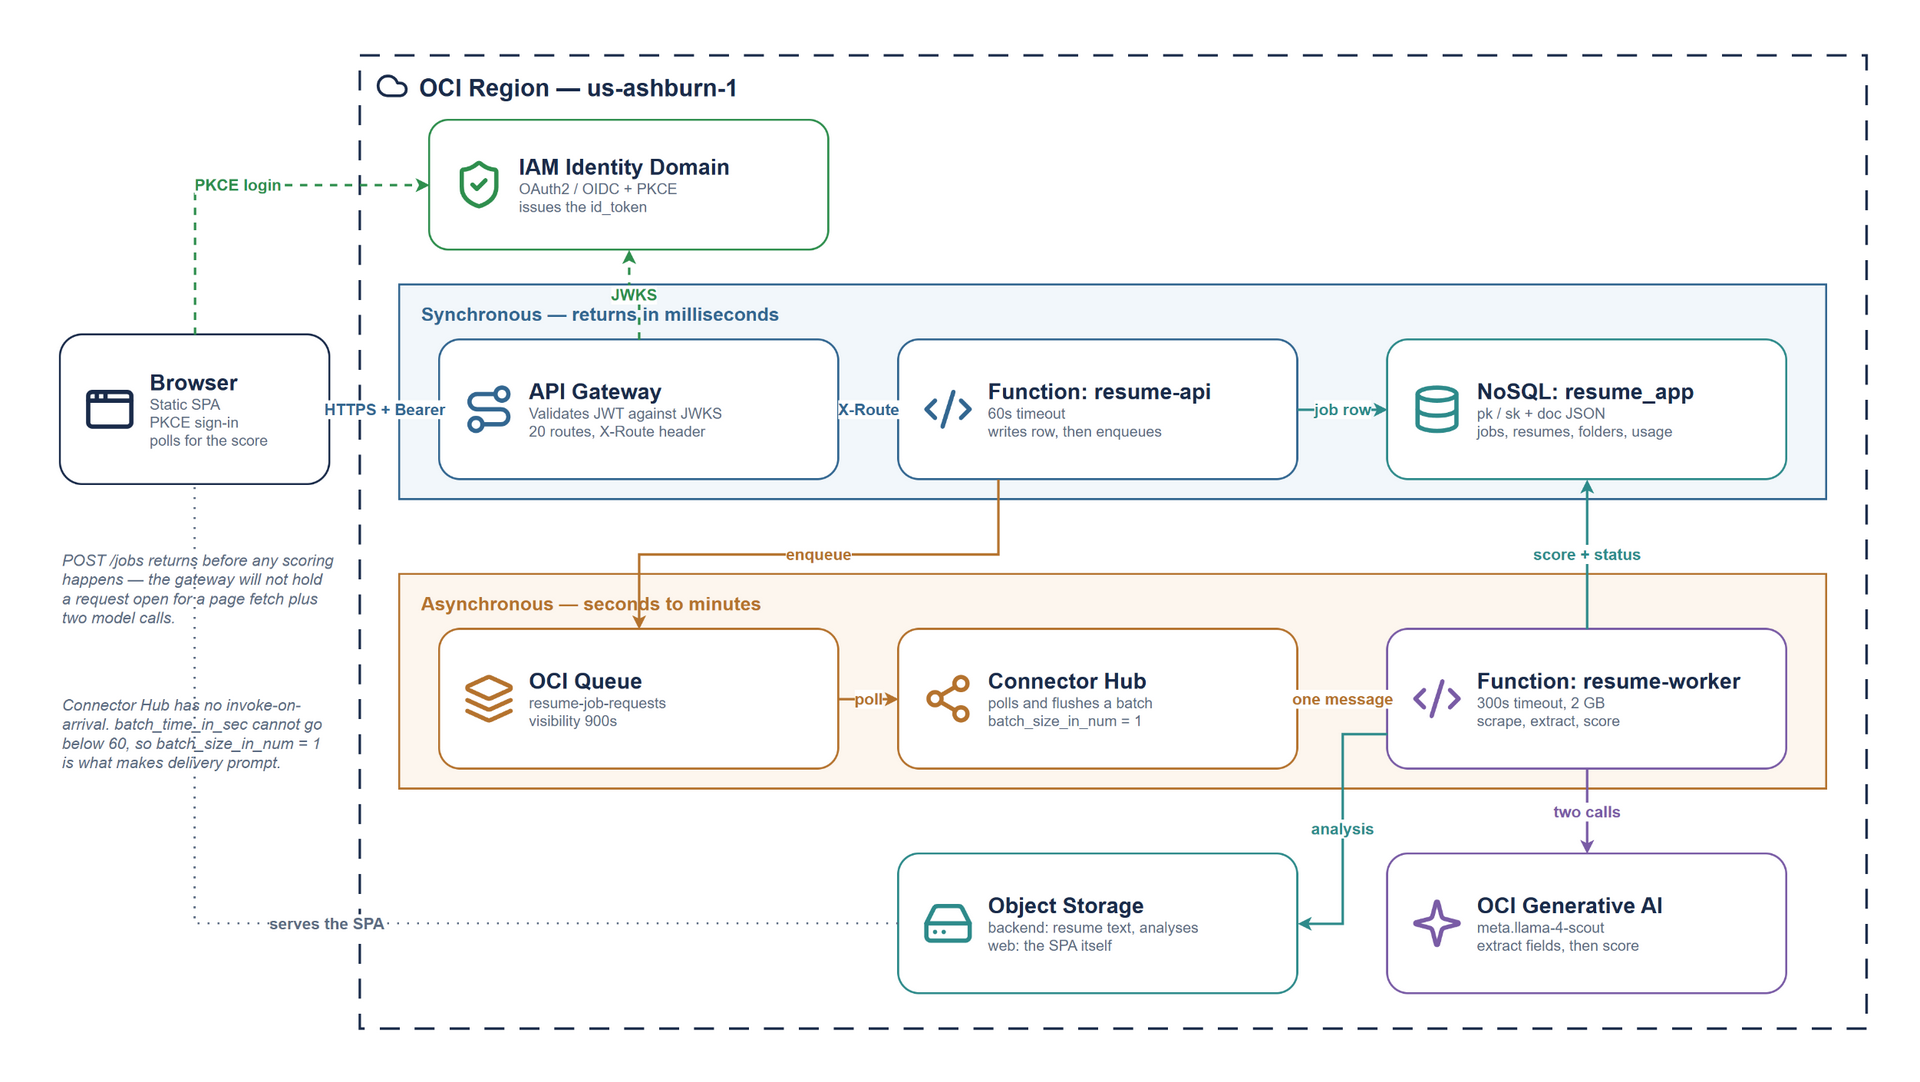
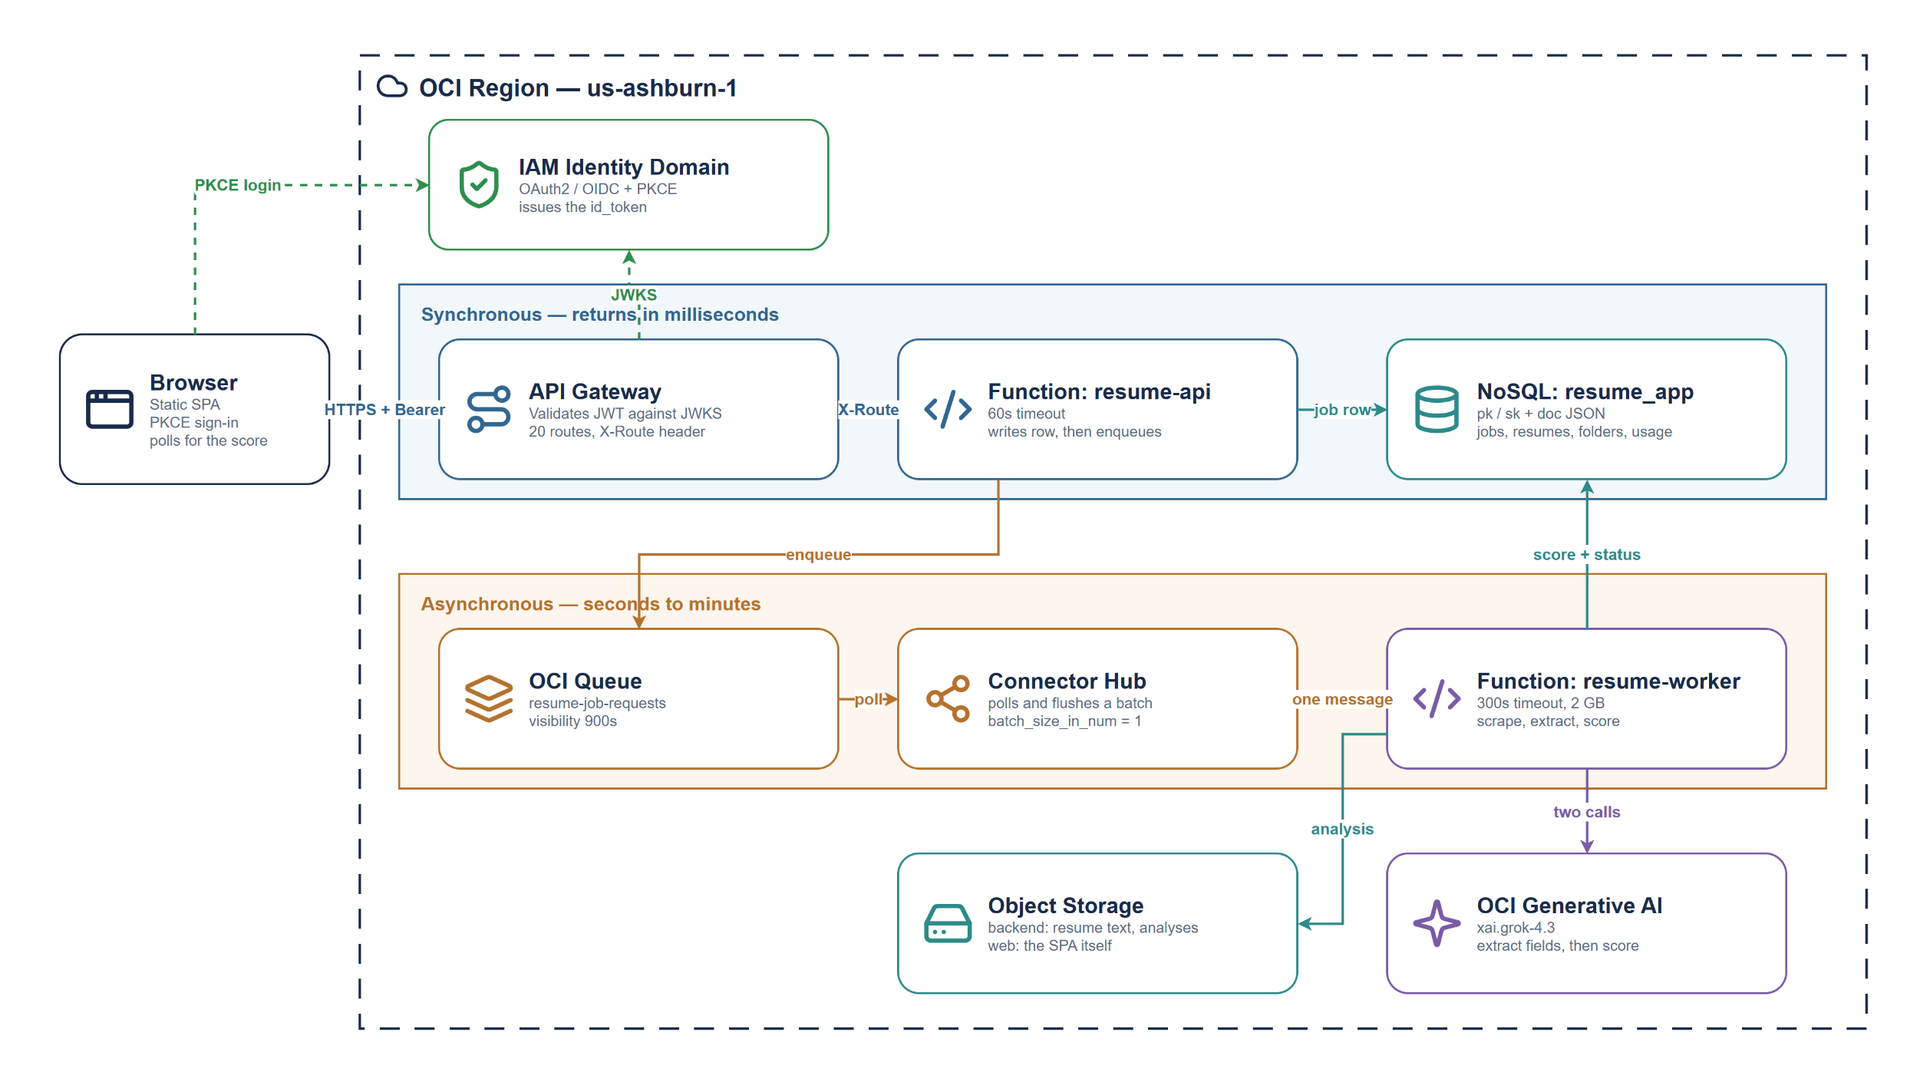
port to oci

diff --git a/gen_diagram.py b/gen_diagram.py
@@ -234,7 +234,7 @@ card("worker", 1390, 630, 400, 140, PURPLE, "code",
      "Function: resume-worker", ["300s timeout, 2 GB", "scrape, extract, score"])
 
 card("genai", 1390, 855, 400, 140, PURPLE, "sparkles",
-     "OCI Generative AI", ["meta.llama-4-scout", "extract fields, then score"])
+     "OCI Generative AI", ["xai.grok-4.3", "extract fields, then score"])
 
 card("store", 900, 855, 400, 140, TEAL, "drive",
      "Object Storage", ["backend: resume text, analyses", "web: the SPA itself"])
@@ -258,21 +258,6 @@ edge("e_model", "worker", "genai", "two calls", PURPLE, "0.5", "1", "0.5", "0")
 edge("e_blob", "worker", "store", "analysis", TEAL, "0", "0.75", "1", "0.5")
 edge("e_score", "worker", "nosql", "score + status", TEAL, "0.5", "0", "0.5", "1")
 
-# The SPA is served from the same Object Storage the worker writes into.
-edge("e_spa", "store", "browser", "serves the SPA", GREY, "0", "0.5", "0.5", "1",
-     dot=True, width="2")
-
-# ==============================================================================
-# Annotations — the two facts a reader most needs and cannot infer
-# ==============================================================================
-
-note("n_async", 60, 545, 275, 120,
-     "POST /jobs returns before any scoring happens — the gateway will not "
-     "hold a request open for a page fetch plus two model calls.")
-
-note("n_batch", 60, 690, 275, 140,
-     "Connector Hub has no invoke-on-arrival. batch_time_in_sec cannot go "
-     "below 60, so batch_size_in_num = 1 is what makes delivery prompt.")
 
 # ==============================================================================
 # Emit
